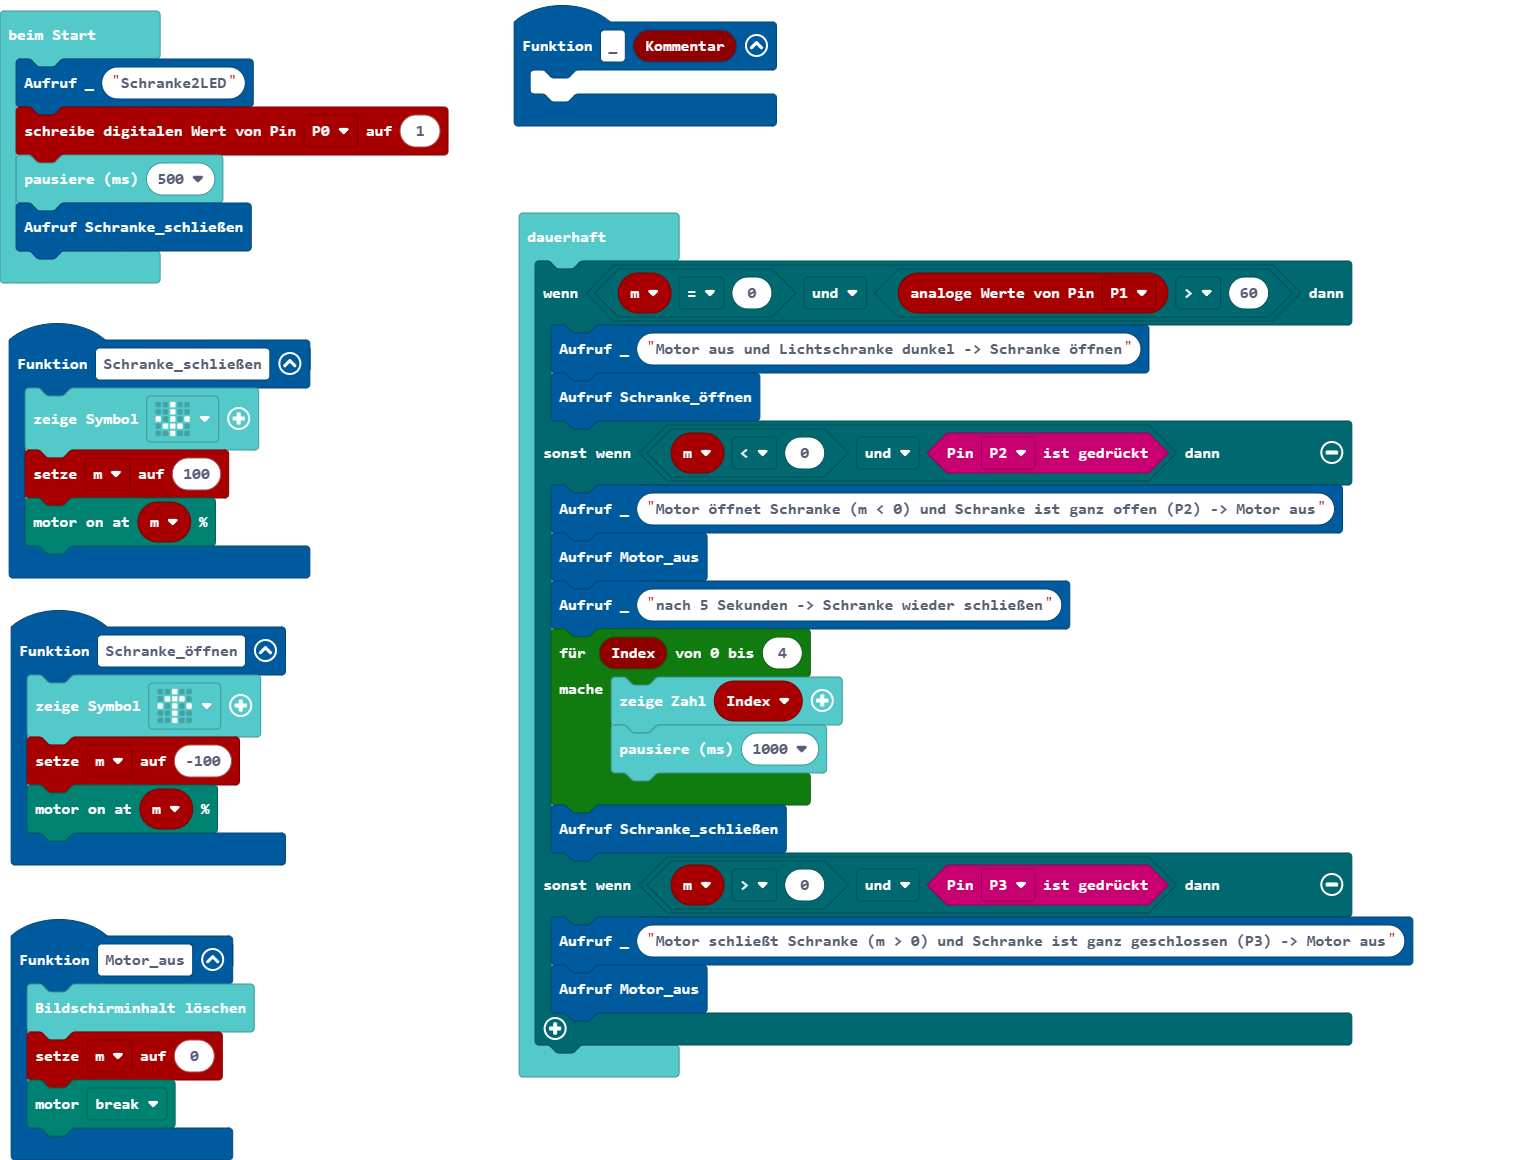
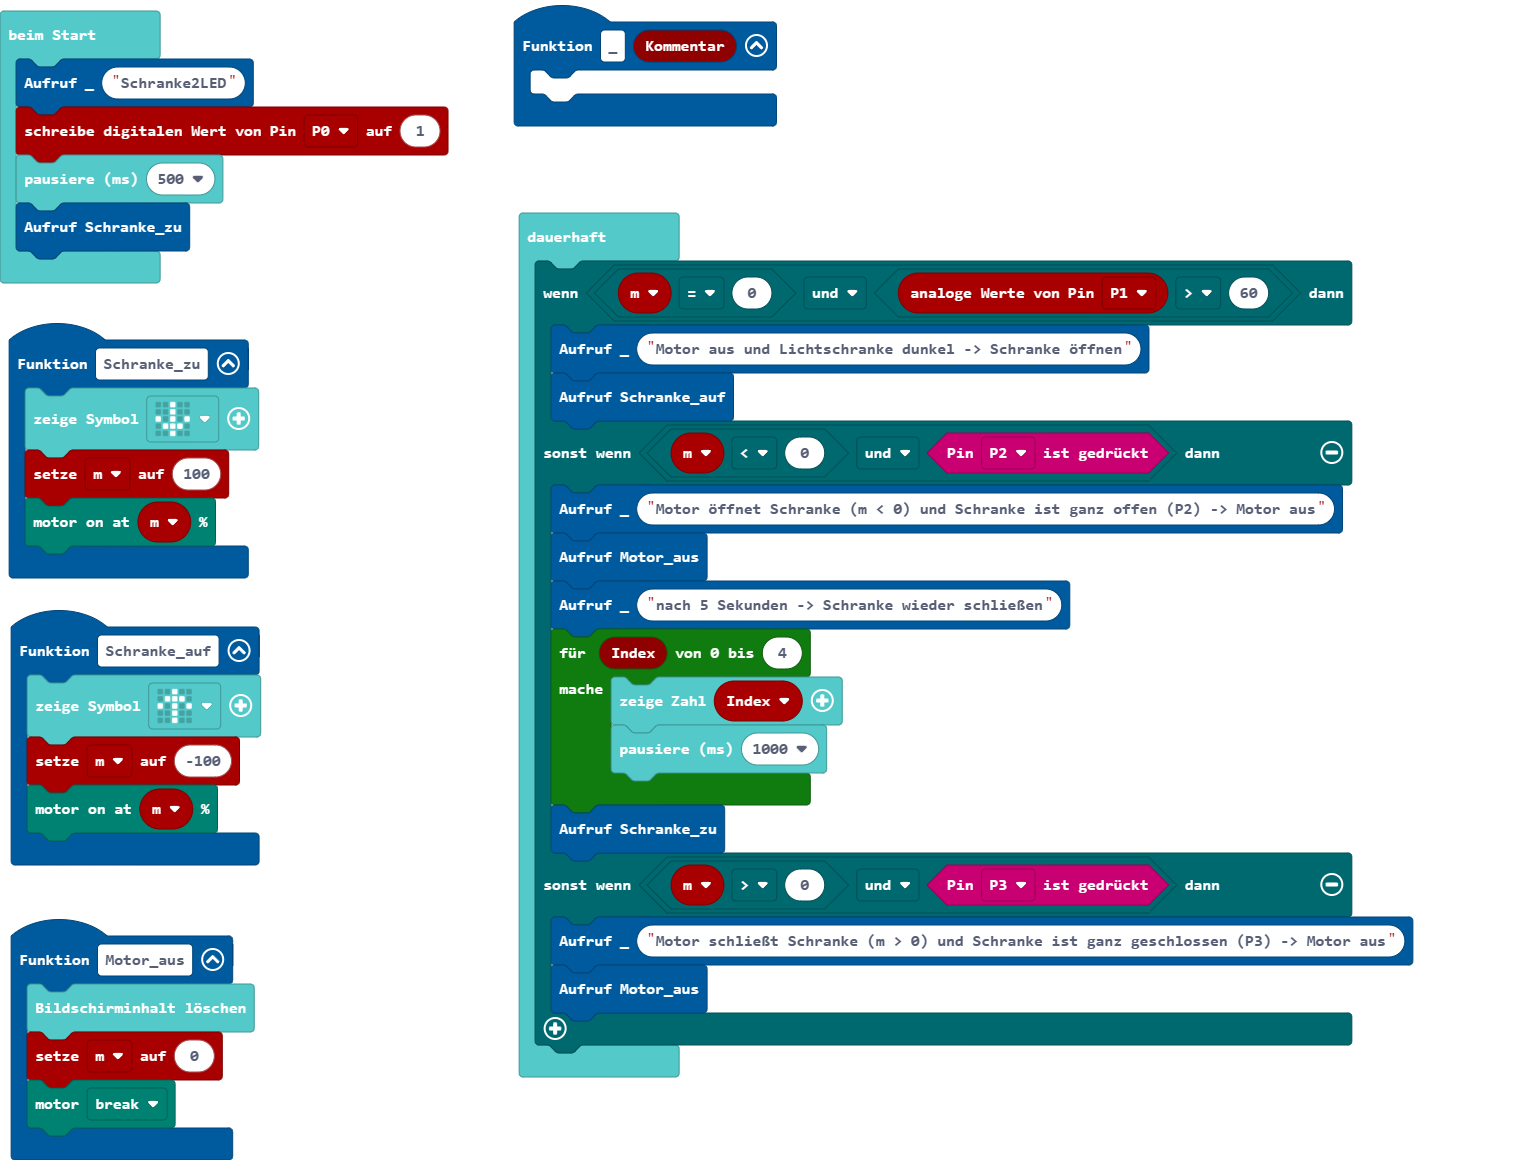
Aktualisiere main.blocks, main.ts

diff --git a/main.ts b/main.ts
@@ -1,6 +1,6 @@
-function Schranke_öffnen () {
-    basic.showIcon(IconNames.ArrowNorth)
-    m = -100
+function Schranke_zu () {
+    basic.showIcon(IconNames.ArrowSouth)
+    m = 100
     motors.motorPower(m)
 }
 function Motor_aus () {
@@ -8,23 +8,23 @@ function Motor_aus () {
     m = 0
     motors.motorCommand(MotorCommand.Break)
 }
-function Schranke_schließen () {
-    basic.showIcon(IconNames.ArrowSouth)
-    m = 100
-    motors.motorPower(m)
-}
 function _ (Kommentar: string) {
 	
+}
+function Schranke_auf () {
+    basic.showIcon(IconNames.ArrowNorth)
+    m = -100
+    motors.motorPower(m)
 }
 let m = 0
 _("Schranke2LED")
 pins.digitalWritePin(DigitalPin.P0, 1)
 basic.pause(500)
-Schranke_schließen()
+Schranke_zu()
 basic.forever(function () {
     if (m == 0 && pins.analogReadPin(AnalogPin.P1) > 60) {
         _("Motor aus und Lichtschranke dunkel -> Schranke öffnen")
-        Schranke_öffnen()
+        Schranke_auf()
     } else if (m < 0 && input.pinIsPressed(TouchPin.P2)) {
         _("Motor öffnet Schranke (m < 0) und Schranke ist ganz offen (P2) -> Motor aus")
         Motor_aus()
@@ -33,7 +33,7 @@ basic.forever(function () {
             basic.showNumber(Index)
             basic.pause(1000)
         }
-        Schranke_schließen()
+        Schranke_zu()
     } else if (m > 0 && input.pinIsPressed(TouchPin.P3)) {
         _("Motor schließt Schranke (m > 0) und Schranke ist ganz geschlossen (P3) -> Motor aus")
         Motor_aus()
